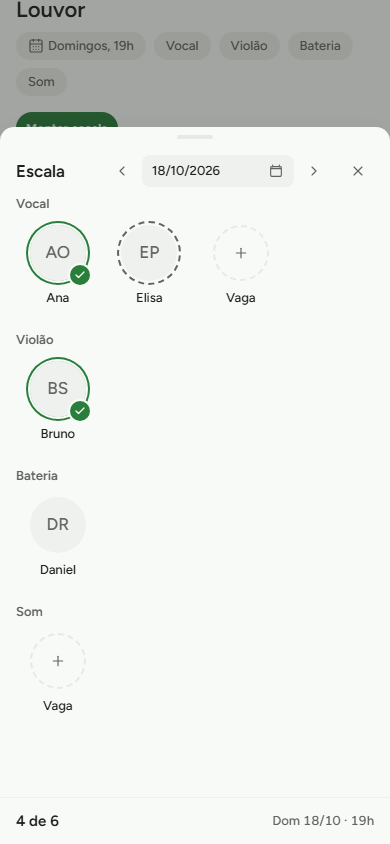
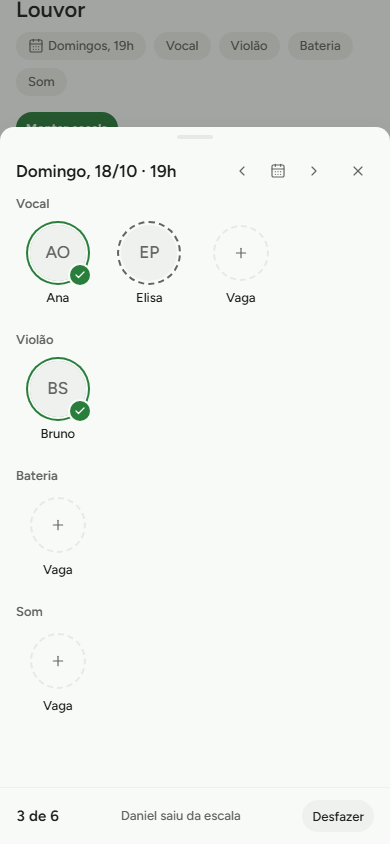
feat(ministries): desfazer ao tirar, topo com o culto por extenso, sugestões em dois grupos, vibração e painel no escuro

diff --git a/src/features/ministries/components/ScheduleSheet.tsx b/src/features/ministries/components/ScheduleSheet.tsx
@@ -6,7 +6,7 @@
 // (otimista); as gravações de uma mesma função entram numa fila, nunca fora de ordem.
 // Trocar de culto pelas setas não anima (uso repetido).
 import { useCallback, useEffect, useRef, useState, type CSSProperties } from "react";
-import { Check, ChevronLeft, ChevronRight, Plus } from "lucide-react";
+import { CalendarDays, Check, ChevronLeft, ChevronRight, Plus } from "lucide-react";
 import { Avatar } from "@/components/shared/Avatar";
 import { DateField } from "@/components/shared/DateField";
 import { UiIcon } from "@/components/shared/UiIcon";
@@ -14,7 +14,7 @@ import { firstName, isIso } from "@/features/groups/domain";
 import { Sheet } from "@/features/groups/components/Sheet";
 import studyStyles from "@/features/study/study.module.css";
 import { assignAction, assignManyAction, markNotifiedAction, removeAssignmentsAction, setAssignmentStatusAction } from "../actions";
-import { addDays, previousService, repeatPlan, seats, serviceShort, servedLabel, suggestPeople, waLink, whatsappText } from "../domain";
+import { addDays, previousService, repeatPlan, seats, serviceLong, servedLabel, suggestPeople, waLink, whatsappText } from "../domain";
 import type { Assignment, Conflict, MinistryDetail } from "../types";
 import { Anchored } from "./Anchored";
 import people from "@/features/sticks/people.module.css";
@@ -55,7 +55,8 @@ export function ScheduleSheet({
   const [confirming, setConfirming] = useState<string | null>(null); // pessoa com conflito: precisa de 2º toque
   const [fresh, setFresh] = useState<Map<string, number>>(new Map()); // id -> atraso da entrada (cascata)
   const [leaving, setLeaving] = useState<Set<string>>(new Set());
-  const [undo, setUndo] = useState<string[] | null>(null);
+  const [undo, setUndo] = useState<{ text: string; run: () => void } | null>(null); // "Desfazer" por 5 s
+  const [dating, setDating] = useState(false); // calendário aberto no topo
   const [msg, setMsg] = useState("");
   const [saving, setSaving] = useState(0);
   const listRef = useRef(list);
@@ -101,6 +102,12 @@ export function ScheduleSheet({
     queues.current.set(role, next);
   }
   const idOf = (id: string) => real.current.get(id) ?? id;
+  function offerUndo(text: string, run: () => void) {
+    window.clearTimeout(undoTimer.current);
+    setUndo({ text, run });
+    undoTimer.current = window.setTimeout(() => setUndo(null), UNDO_MS);
+  }
+  const firstOf = (stickId: string) => firstName(nameOf.get(stickId)?.name ?? "");
 
   function assign(role: string, stickId: string) {
     const tmp: Assignment = { id: `tmp-${++tmpSeq}`, date: svc.date, time: svc.time, role, stickId, status: "assigned", notifiedAt: null };
@@ -110,6 +117,11 @@ export function ScheduleSheet({
     setMsg("");
     setFresh((f) => new Map(f).set(tmp.id, 0));
     commit((l) => [...l, tmp]);
+    try {
+      navigator.vibrate?.(10); // só Android; o iPhone ignora
+    } catch {
+      /* sem vibração */
+    }
     enqueue(role, async () => {
       const r = await assignAction(detail.id, at.date, at.time, role, stickId);
       if (r.success) {
@@ -137,6 +149,10 @@ export function ScheduleSheet({
 
   function remove(a: Assignment) {
     setPick(null);
+    offerUndo(`${firstOf(a.stickId)} saiu da escala`, () => {
+      setUndo(null);
+      assign(a.role, a.stickId);
+    });
     const before = listRef.current;
     fadeOut(a.id, () => commit((l) => l.filter((x) => x.id !== a.id)));
     enqueue(a.role, async () => {
@@ -150,6 +166,16 @@ export function ScheduleSheet({
 
   function status(a: Assignment, s: "confirmed" | "declined") {
     setPick(null);
+    if (s === "declined")
+      offerUndo(`${firstOf(a.stickId)} não pode`, () => {
+        setUndo(null);
+        setFresh((f) => new Map(f).set(a.id, 0));
+        commit((l) => l.map((x) => (x.id === a.id ? { ...x, status: a.status } : x)));
+        enqueue(a.role, async () => {
+          const r = await setAssignmentStatusAction(idOf(a.id), a.status);
+          if (!r.success) setMsg(r.message || FAIL);
+        });
+      });
     const apply = () => commit((l) => l.map((x) => (x.id === a.id ? { ...x, status: s } : x)));
     if (s === "declined") fadeOut(a.id, apply);
     else apply();
@@ -198,14 +224,12 @@ export function ScheduleSheet({
         if (i >= 0) real.current.set(t.id, saved.splice(i, 1)[0]!.id);
       }
       commit((l) => [...l]);
-      setUndo(temps.map((t) => t.id));
-      window.clearTimeout(undoTimer.current);
-      undoTimer.current = window.setTimeout(() => setUndo(null), UNDO_MS);
+      const madeIds = temps.map((t) => t.id);
+      offerUndo("Escala anterior repetida", () => undoRepeat(madeIds));
     });
   }
-  function undoRepeat() {
-    if (!undo) return;
-    const ids = new Set(undo);
+  function undoRepeat(list: string[]) {
+    const ids = new Set(list);
     const before = listRef.current;
     setUndo(null);
     commit((l) => l.filter((a) => !ids.has(a.id)));
@@ -229,26 +253,33 @@ export function ScheduleSheet({
   const head = (
     <span className={m.nav}>
       <button type="button" className="iconbtn" aria-label="Culto anterior" onClick={() => go(-7)}><UiIcon icon={ChevronLeft} /></button>
+      <button type="button" className="iconbtn" aria-label="Escolher a data" aria-expanded={dating} onClick={() => setDating((d) => !d)}><UiIcon icon={CalendarDays} /></button>
+      <button type="button" className="iconbtn" aria-label="Próximo culto" onClick={() => go(7)}><UiIcon icon={ChevronRight} /></button>
+    </span>
+  );
+  const datePick = dating ? (
+    <div className={m.datePick}>
       <span className={`field ${people.dateBox} ${g.sheetDate}`}>
         <DateField
           value={svc.date}
           onChange={(iso) => {
             if (!isIso(iso)) return;
             setPick(null);
+            setDating(false);
             setSvc((s) => ({ ...s, date: iso }));
           }}
           aria-label="Data do culto"
         />
       </span>
-      <button type="button" className="iconbtn" aria-label="Próximo culto" onClick={() => go(7)}><UiIcon icon={ChevronRight} /></button>
-    </span>
-  );
+    </div>
+  ) : null;
   const foot = (
     <>
       {msg ? <p className={g.footMsg} role="alert">{msg}</p> : null}
       <div className={g.footRow}>
         <span className={g.footCount}>{filled} de {total}</span>
-        {undo ? <button type="button" className="btn ghost sm" onClick={undoRepeat}>Desfazer</button> : <span className={m.footWhen} aria-live="polite">{saving > 0 ? "Salvando…" : serviceShort(svc.date, svc.time)}</span>}
+        <span className={m.footWhen} aria-live="polite">{undo ? undo.text : saving > 0 ? "Salvando…" : ""}</span>
+        {undo ? <button type="button" className="btn ghost sm" onClick={undo.run}>Desfazer</button> : null}
       </div>
     </>
   );
@@ -258,7 +289,8 @@ export function ScheduleSheet({
   const suggestions = pickSeat ? suggestPeople(pickSeat.role, detail.members, list, svc.date, svc.time, today, conflicts) : [];
 
   return (
-    <Sheet title="Escala" headExtra={head} onClose={onClose} foot={foot} tall>
+    <Sheet title="Escala" heading={serviceLong(svc.date, svc.time)} headExtra={head} onClose={onClose} foot={foot} tall>
+      {datePick}
       {from ? (
         <div className={g.shortcut}>
           <button type="button" className="btn ghost sm" onClick={repeat}>Repetir a escala anterior</button>
@@ -302,10 +334,14 @@ export function ScheduleSheet({
           {suggestions.length === 0 ? (
             <p className={m.none}>Todo mundo já está neste culto.</p>
           ) : (
-            <ul className={m.sugg}>
-              {suggestions.map((s) => {
+            [suggestions.filter((x) => x.doesRole), suggestions.filter((x) => !x.doesRole)].map((group, gi) =>
+              group.length ? (
+                <div key={gi}>
+                  {gi === 1 ? <p className={m.suggGroup}>Também servem aqui</p> : null}
+                  <ul className={m.sugg}>
+                    {group.map((s) => {
                 const c = s.conflict;
-                const sub = c ? `Já está em ${c.ministryName}${c.role ? ` (${c.role})` : ""} neste horário` : `${servedLabel(s.served)}${s.doesRole ? "" : " · outra função"}`;
+                const sub = c ? `Já está em ${c.ministryName}${c.role ? ` (${c.role})` : ""} neste horário` : servedLabel(s.served);
                 const asking = confirming === s.member.stickId;
                 return (
                   <li key={s.member.stickId}>
@@ -322,8 +358,11 @@ export function ScheduleSheet({
                     </button>
                   </li>
                 );
-              })}
-            </ul>
+                    })}
+                  </ul>
+                </div>
+              ) : null,
+            )
           )}
         </Anchored>
       ) : null}

diff --git a/e2e/ministries.spec.ts b/e2e/ministries.spec.ts
@@ -93,9 +93,11 @@ test("ministérios: funções, quem serve, escala por toque, conflito, WhatsApp 
   await page.getByRole("button", { name: "Montar escala" }).click();
   const sheet = page.getByRole("dialog", { name: "Escala" });
   await expect(sheet).toBeVisible();
+  await expect(sheet.getByRole("heading", { name: /^Domingo, \d{2}\/\d{2} · 19h$/ })).toBeVisible();
   await sheet.getByRole("button", { name: "Escalar Vocal" }).first().click();
   const sugg = page.getByRole("dialog", { name: "Escalar Vocal" });
   await expect(sugg.getByRole("button").first()).toContainText(ana); // faz a função, vem primeiro
+  await expect(sugg.getByText("Também servem aqui")).toBeVisible(); // quem não marcou Vocal vem num 2º grupo
   await sugg.getByRole("button", { name: new RegExp(ana) }).click();
   await expect(sheet.getByRole("button", { name: `${ana}, Vocal` })).toBeVisible();
   await sheet.getByRole("button", { name: "Escalar Vocal" }).click();
@@ -117,6 +119,13 @@ test("ministérios: funções, quem serve, escala por toque, conflito, WhatsApp 
   await page.keyboard.press("Escape");
 
   // tirar a Bia reabre a vaga; ao fechar, a ficha mostra "1 vaga" no culto
+  await sheet.getByRole("button", { name: `${bia}, Vocal` }).click();
+  await page.getByRole("dialog", { name: bia }).getByRole("button", { name: "Tirar" }).click();
+  await expect(sheet.getByText("2 de 3")).toBeVisible();
+  // desfazer devolve a Bia; tirar de novo
+  await expect(sheet.getByText("Bia saiu da escala")).toBeVisible();
+  await sheet.getByRole("button", { name: "Desfazer" }).click();
+  await expect(sheet.getByText("3 de 3")).toBeVisible();
   await sheet.getByRole("button", { name: `${bia}, Vocal` }).click();
   await page.getByRole("dialog", { name: bia }).getByRole("button", { name: "Tirar" }).click();
   await expect(sheet.getByText("2 de 3")).toBeVisible();

diff --git a/src/features/groups/components/Sheet.tsx b/src/features/groups/components/Sheet.tsx
@@ -11,7 +11,8 @@ import { UiIcon } from "@/components/shared/UiIcon";
 import { sheetCloses } from "../domain";
 import g from "../groups.module.css";
 
-export function Sheet({ title, headExtra, onClose, children, foot, tall }: { title: string; headExtra?: ReactNode; onClose: () => void; children: ReactNode; foot?: ReactNode; tall?: boolean }) {
+// `heading` troca o texto visível do topo (o nome acessível continua `title`).
+export function Sheet({ title, heading, headExtra, onClose, children, foot, tall }: { title: string; heading?: ReactNode; headExtra?: ReactNode; onClose: () => void; children: ReactNode; foot?: ReactNode; tall?: boolean }) {
   const closeRef = useRef<HTMLButtonElement>(null);
   const sheetRef = useRef<HTMLDivElement>(null);
   const drag = useRef<{ id: number; y0: number; dy: number; hist: { y: number; t: number }[] } | null>(null);
@@ -70,7 +71,7 @@ export function Sheet({ title, headExtra, onClose, children, foot, tall }: { tit
         <div className={g.sheetTop} onPointerDown={down} onPointerMove={move} onPointerUp={up} onPointerCancel={up}>
           <span className={g.grab} aria-hidden="true" />
           <div className={g.sheetHead}>
-            <h2>{title}</h2>
+            <h2>{heading ?? title}</h2>
             {headExtra}
             <button ref={closeRef} type="button" className="iconbtn" aria-label="Fechar" onClick={onClose}>
               <UiIcon icon={X} />

diff --git a/src/features/ministries/components/MinistryProfile.tsx b/src/features/ministries/components/MinistryProfile.tsx
@@ -151,8 +151,8 @@ export function MinistryProfile({
 
       {editing ? null : (
         <div className={g.presenceRow}>
-          <button type="button" className={styles.primary} onClick={() => setService(next)} disabled={!detail.roles.length || !detail.members.length}>Montar escala</button>
-          {!detail.roles.length ? <span className={g.lastText}>Cadastre as funções no Editar.</span> : !detail.members.length ? <span className={g.lastText}>Adicione quem serve no Editar.</span> : null}
+          <button type="button" className={styles.primary} onClick={() => (detail.roles.length && detail.members.length ? setService(next) : canManage ? onEditing(true) : undefined)}>Montar escala</button>
+          {!detail.roles.length ? <span className={g.lastText}>Primeiro, as funções (ex.: Vocal, Som).</span> : !detail.members.length ? <span className={g.lastText}>Primeiro, quem serve.</span> : null}
         </div>
       )}
 

diff --git a/src/features/ministries/ministries.module.css b/src/features/ministries/ministries.module.css
@@ -359,3 +359,25 @@ button.seat:focus-visible {
     opacity: 0;
   }
 }
+
+/* Calendário do topo da escala (abre pelo ícone) */
+.datePick {
+  display: flex;
+  justify-content: flex-end;
+  margin-bottom: var(--s-3);
+}
+
+/* Sugestões: quem faz a função primeiro; o resto do ministério num segundo grupo */
+.suggGroup {
+  margin: var(--s-2) var(--s-2) var(--s-1);
+  font-size: var(--t-11);
+  line-height: var(--lh-11);
+  font-weight: 600;
+  color: var(--text-2);
+}
+
+/* No escuro o painel ficava da mesma cor da escala: um tom acima e sombra mais funda (superfície maior = mais espessa) */
+:global([data-theme="dark"]) .anchored {
+  background: var(--surface-2);
+  box-shadow: 0 12px 32px rgba(0, 0, 0, .6), 0 0 0 1px rgba(255, 255, 255, .06);
+}

diff --git a/src/features/ministries/domain.test.ts b/src/features/ministries/domain.test.ts
@@ -12,6 +12,7 @@ import {
   repeatPlan,
   seats,
   servedLabel,
+  serviceLong,
   suggestPeople,
   upcomingServices,
   waLink,
@@ -40,6 +41,7 @@ describe("datas e horários", () => {
   it("próximo domingo a partir de segunda", () => expect(nextServiceDate("Domingo", TODAY)).toBe("2026-10-18"));
   it("hoje quando é o dia", () => expect(nextServiceDate("Segunda", TODAY)).toBe(TODAY));
   it("sem dia padrão = hoje", () => expect(nextServiceDate("", TODAY)).toBe(TODAY));
+  it("rótulo longo do culto", () => expect(serviceLong("2026-10-18", "19:00")).toBe("Domingo, 18/10 · 19h"));
   it("normaliza o horário do banco", () => {
     expect(normTime("19:00:00")).toBe("19:00");
     expect(normTime(null)).toBe("");

diff --git a/src/features/ministries/domain.ts b/src/features/ministries/domain.ts
@@ -114,7 +114,12 @@ export function serviceLabel(date: string, time: string): string {
   const t = timeLabel(time);
   return `${day} ${date.slice(8, 10)}/${date.slice(5, 7)}${t ? ` às ${t}` : ""}`;
 }
-/** "Dom 19/10 · 19h" (cartões e topo da escala). */
+/** "Domingo, 19/10 · 19h" (topo da Montar escala). */
+export function serviceLong(date: string, time: string): string {
+  const t = timeLabel(time);
+  return `${WEEKDAYS[weekdayOf(date)] ?? ""}, ${date.slice(8, 10)}/${date.slice(5, 7)}${t ? ` · ${t}` : ""}`;
+}
+/** "Dom 19/10 · 19h" (cartões). */
 export function serviceShort(date: string, time: string): string {
   const day = (WEEKDAYS[weekdayOf(date)] ?? "").slice(0, 3);
   const t = timeLabel(time);
